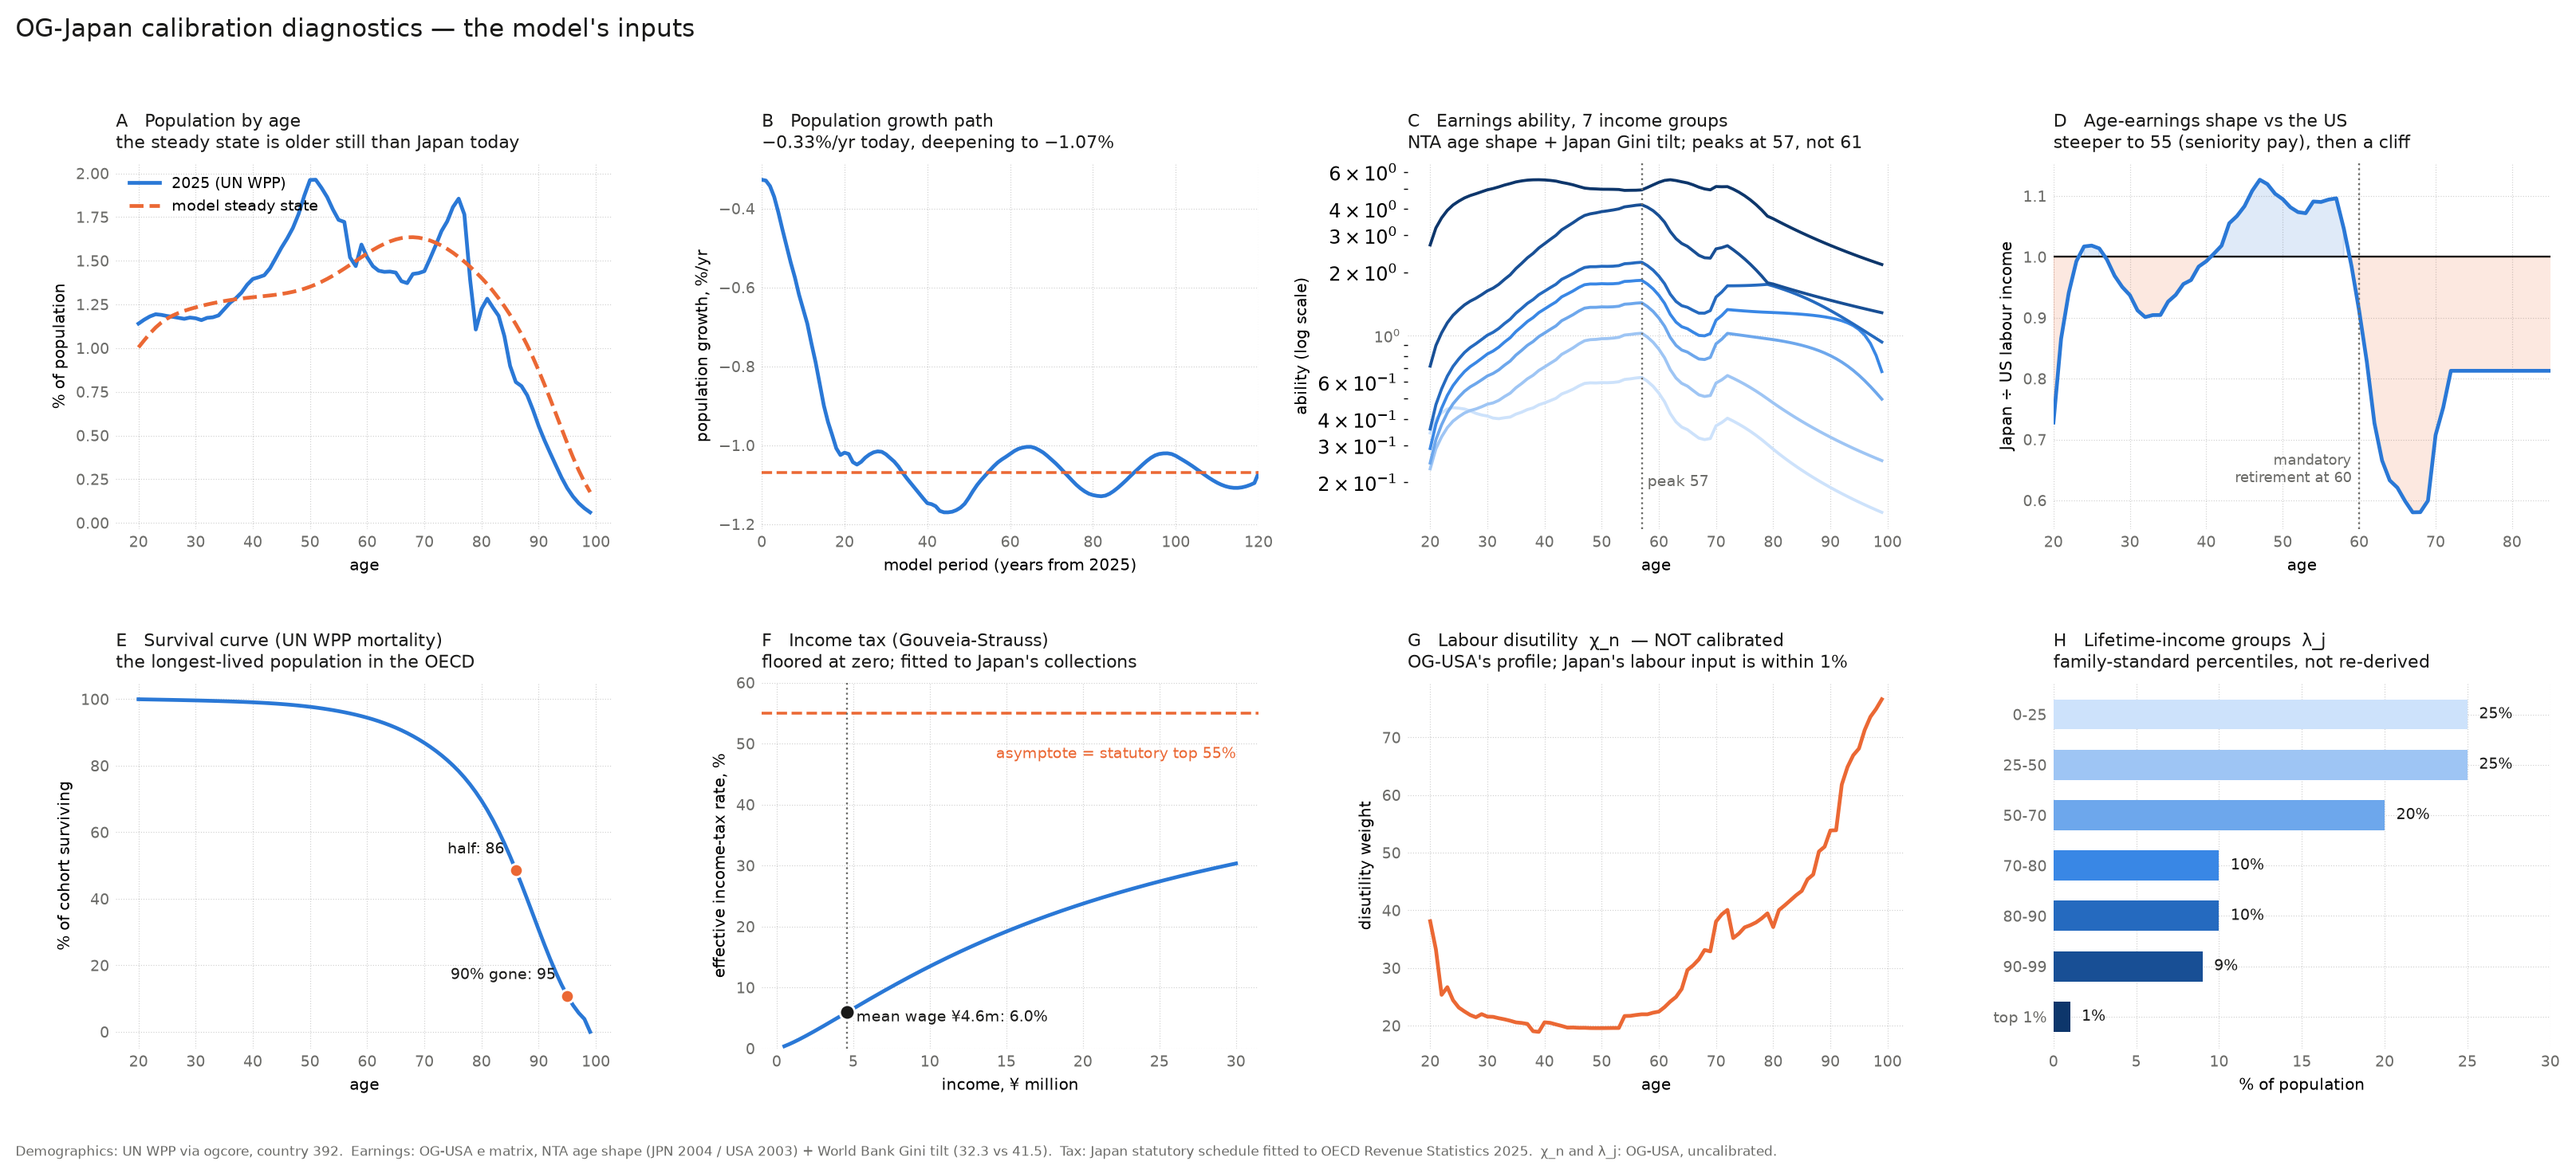
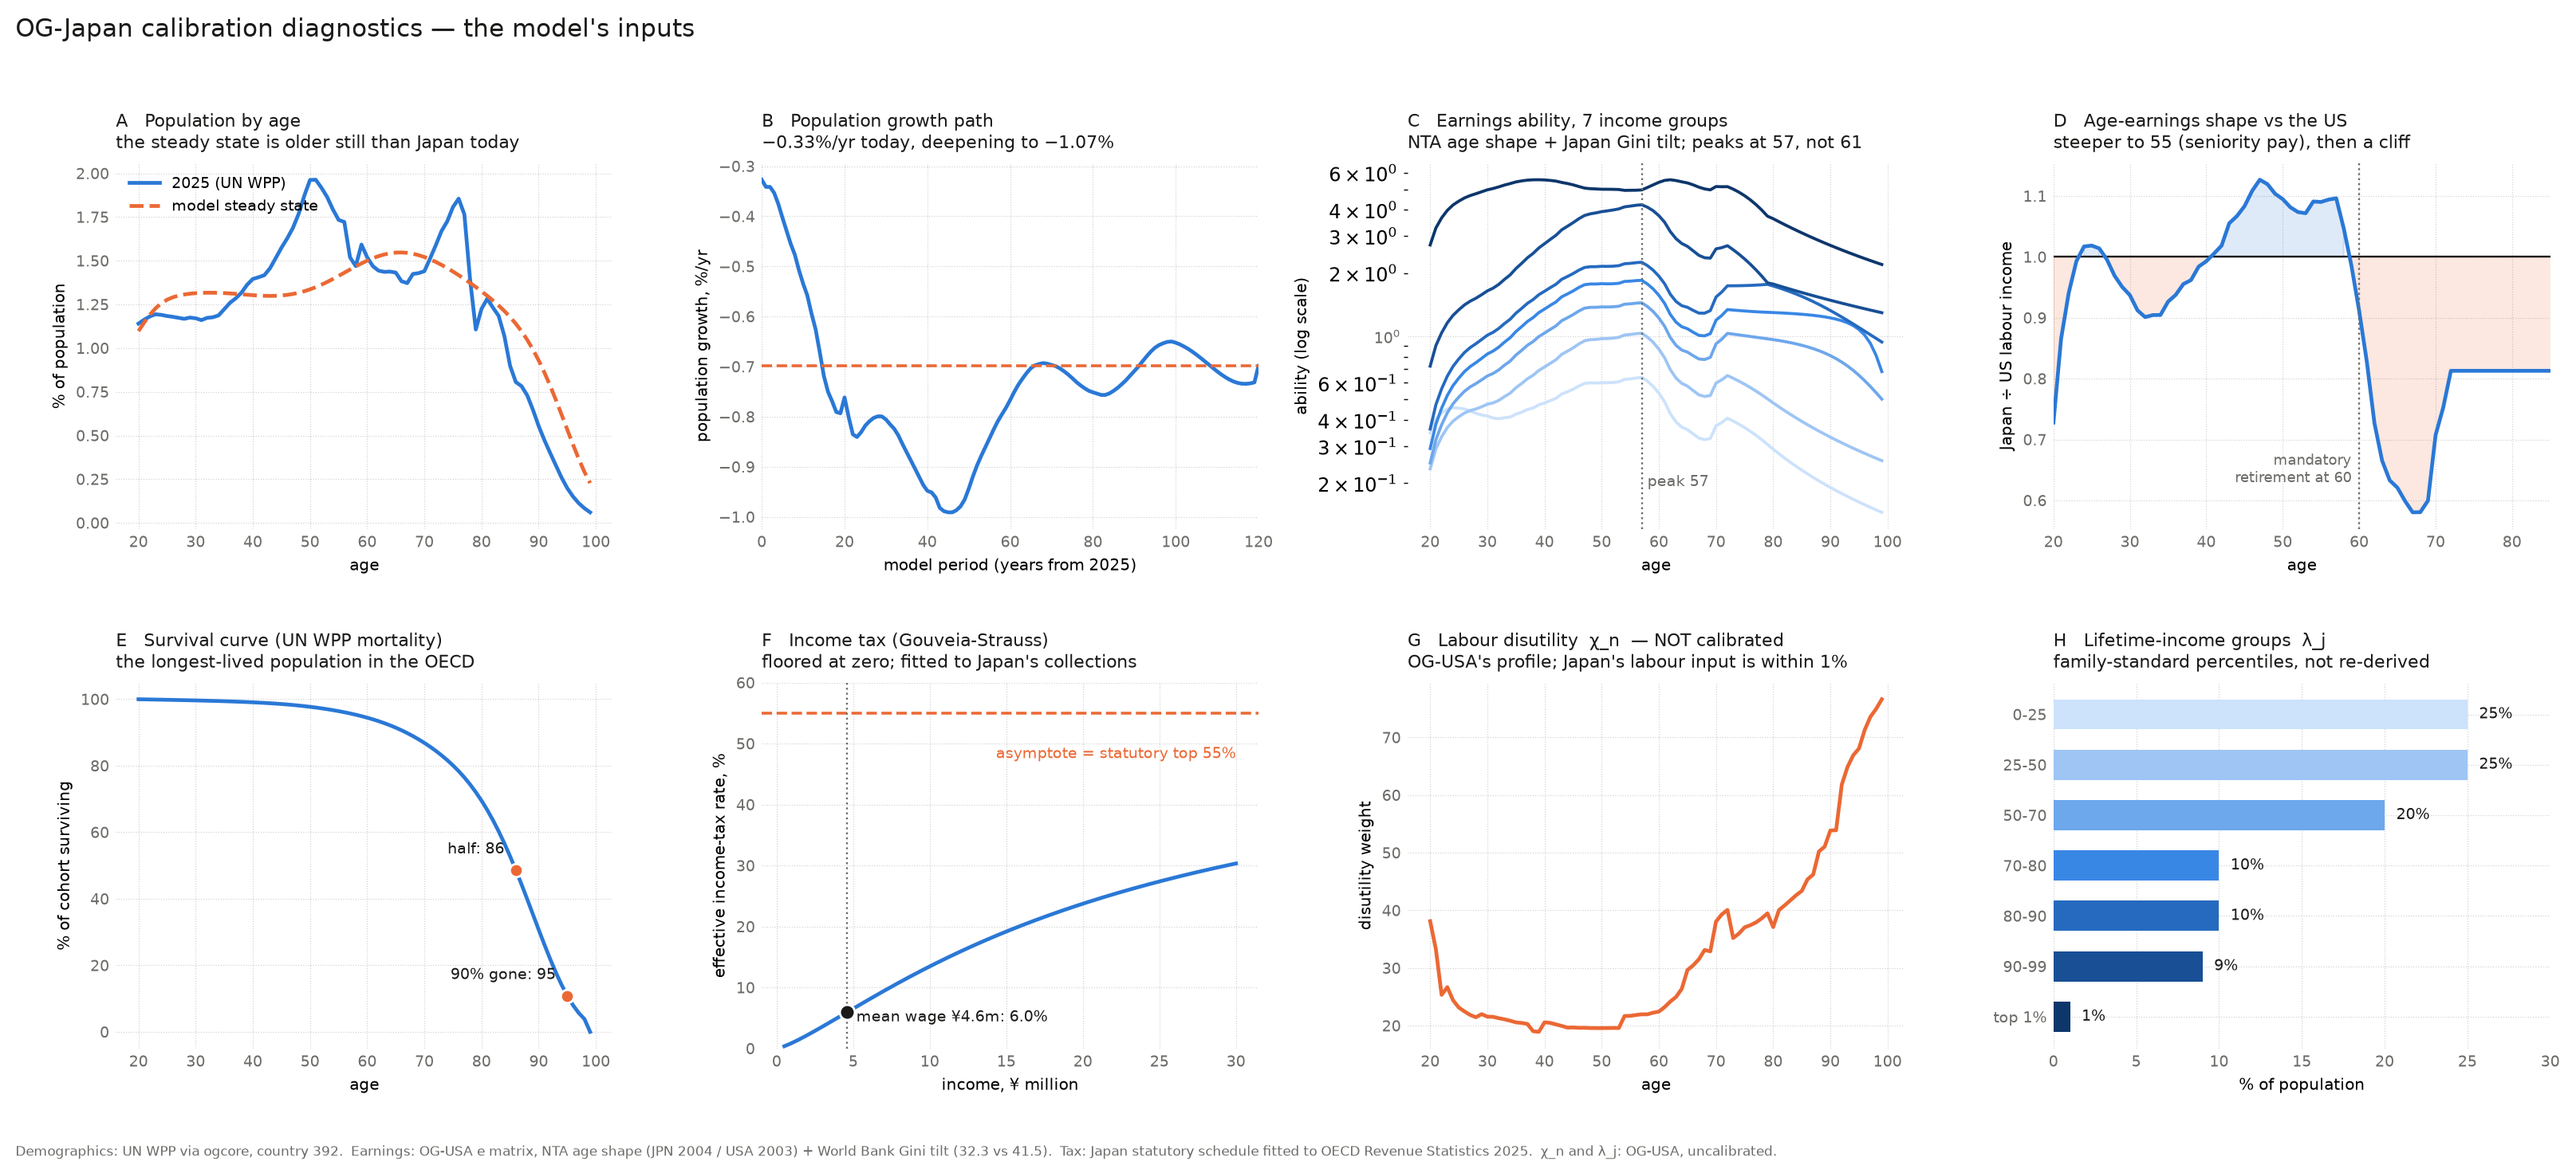
Seed the steady-state solver on a yen scale and widen the demographic window

diff --git a/ogjpn/macro_params.py b/ogjpn/macro_params.py
@@ -333,6 +333,38 @@ def get_macro_params():
     macro_parameters["beta_annual"] = [0.979] * 7
 
     # -----------------------------------------------------------------------
+    # Steady-state solver seeds.
+    #
+    # OG-Core's defaults are OG-USA's SOLVED values, and one of them is not a
+    # tuning choice but a units mismatch: `initial_guess_factor_SS = 139355.15`
+    # is the factor that converts model units to US DOLLARS. `factor` scales
+    # with `mean_income_data`, so any country whose currency unit differs from
+    # the dollar seeds the solver by that ratio. Japan's mean wage is 4.6m yen
+    # against the US 58,645 dollars -- a ratio of 78 -- and the solved Japanese
+    # factor is about 7.0 million, 50x the default seed.
+    #
+    # The symptom is not a clean failure. The steady state still solves, slowly,
+    # and then stalls: the residual reaches machine precision on the first
+    # stage, restarts, and sticks around 1.7e-04 against a 1e-09 tolerance.
+    #
+    # AND OG-Core will not accept the right value: `initial_guess_factor_SS`
+    # is validated to a maximum of 500,000, so the correct Japanese seed of
+    # ~7.0 million cannot be set at all. The cap is itself currency-dependent
+    # and excludes every low-unit currency -- yen, won, rupiah, dong. We set
+    # the maximum OG-Core allows, which is 3.6x better than the US default but
+    # still 14x below the solved value. Raising the cap is an upstream item
+    # (docs/UPSTREAM_OGCORE.md).
+    #
+    # Seeds are rounded rather than set to solved values to five digits -- the
+    # family's experience (PHL) is that exact-solved guesses can route the
+    # solver through a K_d < 0 region and fail where farther guesses converge.
+    # Choose seeds by solve-path robustness, not by proximity.
+    # -----------------------------------------------------------------------
+    macro_parameters["initial_guess_factor_SS"] = 500000.0
+    macro_parameters["initial_guess_r_SS"] = 0.04
+    macro_parameters["initial_guess_TR_SS"] = 0.023
+
+    # -----------------------------------------------------------------------
     # Solver settings.
     #
     # Anderson acceleration on the TPI outer loop (ogcore >= 0.16.4). The

diff --git a/tests/test_ogjpn.py b/tests/test_ogjpn.py
@@ -435,3 +435,20 @@ def test_demographic_window_is_wide_enough_to_see_the_projection():
     from ogjpn import constants
 
     assert constants.DEMOGRAPHIC_DATA_YEARS >= 10
+
+
+def test_solver_seeds_are_in_yen_not_dollars():
+    """
+    OG-Core's initial_guess_factor_SS default (139,355.15) is the factor that
+    maps model units to US DOLLARS. `factor` scales with mean_income_data, so
+    any non-dollar country seeds the solver off by that currency ratio --
+    about 50x for Japan. The steady state then stalls rather than failing
+    cleanly.
+    """
+    m = macro_params.get_macro_params()
+    # OG-Core caps this at 500,000, below Japan's solved factor of ~7.0m,
+    # so the best available is the cap itself.
+    assert m["initial_guess_factor_SS"] == pytest.approx(500000.0)
+    assert m["initial_guess_factor_SS"] != pytest.approx(139355.154)
+    # and the rate seeds should be near Japan's solved values, not the US ones
+    assert m["initial_guess_r_SS"] < 0.0648

diff --git a/docs/UPSTREAM_OGCORE.md b/docs/UPSTREAM_OGCORE.md
@@ -1,10 +1,11 @@
 # Upstream contributions this calibration identifies
 
-Five things this calibration needs that belong in OG-Core or the shared data
+Six things this calibration needs that belong in OG-Core or the shared data
 repos rather than in a country model. Each is stated with what it costs to work
 around, because that is what decides whether it is worth a maintainer's time.
 
-Items 1 and 5 affect **every** country repo, not just Japan.
+Items 1, 3 and 6 affect **every** country repo, not just Japan — item 3
+hits every country whose currency is not the US dollar.
 
 ---
 
@@ -103,7 +104,43 @@ Defaulting to `0.0` reproduces today's behaviour exactly.
 
 ---
 
-## 3. Japan is missing from the offline demographic mirror
+## 3. `initial_guess_factor_SS` is capped below what a non-dollar currency needs
+
+**Where:** `ogcore/default_parameters.json`, `initial_guess_factor_SS`
+(`value` 139355.154, `range` max **500000**).
+
+`factor` converts model units to the country's currency, so it scales directly
+with `mean_income_data`. OG-Core's default is OG-USA's solved value in **US
+dollars**, and the validator caps the parameter at 500,000.
+
+Japan's solved factor is about **7.0 million** yen. The correct seed is
+therefore not merely absent — it **cannot be entered**, because it exceeds the
+maximum by a factor of 14.
+
+The cap is currency-dependent in a way nothing in the parameter's name or
+description suggests. Any country whose currency has a low unit value is
+affected, and the further the unit value from the dollar the worse it gets:
+Japanese yen, Korean won, Indonesian rupiah, Vietnamese dong. For a rupiah
+calibration the required seed would be orders of magnitude beyond the cap.
+
+**Symptom.** Not a clean failure — the steady state still solves, slowly, and
+then becomes fragile: on this calibration the residual reached machine precision
+on the first solve stage, restarted, and stalled at ~1.7e-04 against a 1e-09
+tolerance, burning 97 iterations without progress.
+
+**Proposed change.** Raise or remove the maximum. The parameter is a solver
+seed, not an economic quantity, so a wide bound costs nothing:
+
+```python
+"validators": {"range": {"min": 1.0, "max": 1e12}}
+```
+
+Better still, default it to something currency-neutral — e.g. derive the seed
+from `mean_income_data` rather than shipping a US level.
+
+---
+
+## 4. Japan is missing from the offline demographic mirror
 
 **Where:** `ogcore/demographics.py`, the `country_dict` fallback (11 countries,
 no `"392"`).
@@ -121,7 +158,7 @@ The CSVs can be generated from the UN API once a token is in hand.
 
 ---
 
-## 4. Demographic gradients have no high-income route
+## 5. Demographic gradients have no high-income route
 
 **Where:** [EAPD-DRB/Demographic-Gradients](https://github.com/EAPD-DRB/Demographic-Gradients).
 
@@ -143,7 +180,7 @@ derivation rather than a citation.
 
 ---
 
-## 5. The NTA age-shape method belongs in a shared place
+## 6. The NTA age-shape method belongs in a shared place
 
 **Where:** the country repos' `income.py`, or a shared helper.
 
@@ -167,8 +204,8 @@ mandatory retirement at 60 move peak earnings age from 61 to 57.
 
 ## Note on scope
 
-None of these block the calibration. Items 3 and 4 were already identified in
-the project README; items 1, 2 and 5 were found by building and running this
-calibration. All are recorded here rather than quietly worked around, because a
+None of these block the calibration outright. Items 4 and 5 were already
+identified in the project README; items 1, 2, 3 and 6 were found by building and
+running this calibration. All are recorded here rather than quietly worked around, because a
 country repo compensating for an upstream limitation is how a limitation becomes
 invisible.

diff --git a/docs/CALIBRATION_TABLE.md b/docs/CALIBRATION_TABLE.md
@@ -12,13 +12,16 @@ Generated by `examples/calibration_table.py` -- regenerate rather than edit, so 
 | `alpha_G` | `0.201` | World Bank NE.CON.GOVT.ZS, general government, 2024 |
 | `alpha_I` | `0.03` | Japan public gross fixed capital formation |
 | `alpha_T` | `0.025` | IPSS social security spending, CASH only (in-kind is in G) |
-| `beta_annual` | `(7,) array, first = 0.971` | calibrated to the PWT capital-output ratio of 3.70 |
+| `beta_annual` | `(7,) array, first = 0.979` | calibrated to the PWT capital-output ratio of 3.70 |
 | `debt_ratio_ss` | `1` | policy anchor (chosen, not measured) |
 | `delta_annual` | `0.062` | World Bank NY.ADJ.DKAP.GN.ZS, CFC/K, 2016-2019 |
 | `g_y_annual` | `0.0104` | PWT via FRED: real GDP / (persons x hours), 2000-2019 |
 | `gamma` | `0.43` | PWT labour share (FRED LABSHPJPA156NRUG), 2015-2023 |
 | `initial_debt_ratio` | `0.864` | OECD Economic Outlook GNFLQ, net, end-2024 |
 | `initial_foreign_debt_ratio` | `0.137` | MOF JGB/T-Bill holders, Mar 2026 |
+| `initial_guess_TR_SS` | `0.023` | — |
+| `initial_guess_factor_SS` | `500000` | — |
+| `initial_guess_r_SS` | `0.04` | — |
 | `r_gov_scale` | `0.25` | reduced pass-through: BOJ holds 42.2% of JGBs |
 | `r_gov_shift` | `0.017` | OECD EO net interest / net debt, 2015-2024 |
 | `zeta_D` | `0.137` | set equal to the stock share (family default) |
@@ -36,9 +39,9 @@ Generated by `examples/calibration_table.py` -- regenerate rather than edit, so 
 | `m_wealth` | `0.001` | small positive: m=0 divides 0/0 at zero wealth |
 | `mtrx_params` | `[0.55, 1.3, 3.5e-10]` | same triple (analytically consistent) |
 | `mtry_params` | `[0.55, 1.3, 3.5e-10]` | same triple (analytically consistent) |
-| `p_wealth` | `0.00507` | tuned to property taxes 2.21% of GDP |
-| `tau_bq` | `0.0237` | tuned to inheritance tax 0.55% of GDP |
-| `tau_c` | `0.1183` | tuned to OECD RevStats goods+services 6.82% of GDP |
+| `p_wealth` | `0.00503` | tuned to property taxes 2.21% of GDP |
+| `tau_bq` | `0.0263` | tuned to inheritance tax 0.55% of GDP |
+| `tau_c` | `0.1226` | tuned to OECD RevStats goods+services 6.82% of GDP |
 | `tau_payroll` | `0.2312` | OECD RevStats 2025 SSC 13.18% / labour share 0.57 |
 | `tax_func_type` | `GS` | Gouveia-Strauss: floors the effective rate at zero |
 
@@ -46,7 +49,7 @@ Generated by `examples/calibration_table.py` -- regenerate rather than edit, so 
 
 | Parameter | Value | Source |
 |---|---|---|
-| `alpha_db` | `0.01035` | OECD PaG 32.4% x survivors/disability uplift, then fitted |
+| `alpha_db` | `0.01055` | OECD PaG 32.4% x survivors/disability uplift, then fitted |
 | `avg_earn_num_years` | `40` | Japan averages the ENTIRE career, not final salary |
 | `mean_income_data` | `4.6e+06` | National Tax Agency private-sector wages, 2023 |
 | `pension_system` | `Defined Benefits` | Japan's public pension is earnings-related DB |
@@ -74,4 +77,4 @@ In a country port the parameters you did not set matter as much as those you did
 | `initial_wealth_ratio` | undiagnosed | affects the TRANSITION only; flagged as the main open risk |
 | `epsilon` | 1.0 (Cobb-Douglas) | no Japanese estimate applied |
 
-**34 parameters calibrated.**
+**37 parameters calibrated.**
